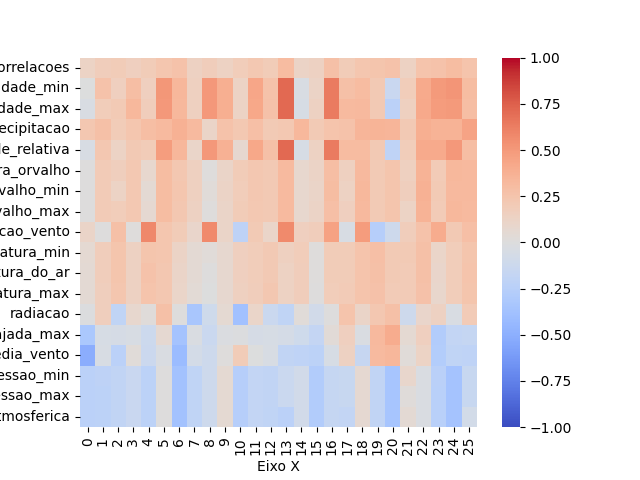
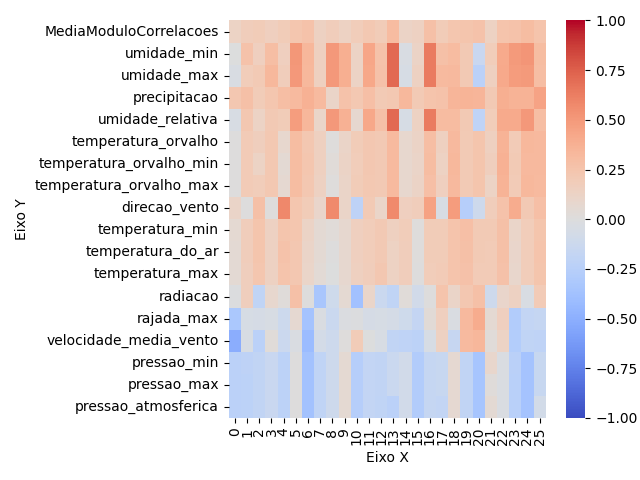
New heatmap

diff --git a/correlacionador/plot_correlacao.py b/correlacionador/plot_correlacao.py
@@ -3,7 +3,7 @@ import seaborn as sns
 import matplotlib.pyplot as plt
 
 # Crie uma matriz de exemplo contendo números entre -1 e 1
-df = pd.read_csv("correlacionador\\correlacao.csv")
+df = pd.read_csv("correlacionador\\correlacao_2.csv")
 
 # Crie o mapa de calor usando seaborn
 df = df.drop(df.columns[0], axis=1)
@@ -15,4 +15,7 @@ plt.xlabel('Eixo X')
 plt.ylabel('Eixo Y')
 
 # Exiba o mapa de calor
+plt.tight_layout()
+plt.savefig("correlacionador\\heatmap.png")
 plt.show()
+
